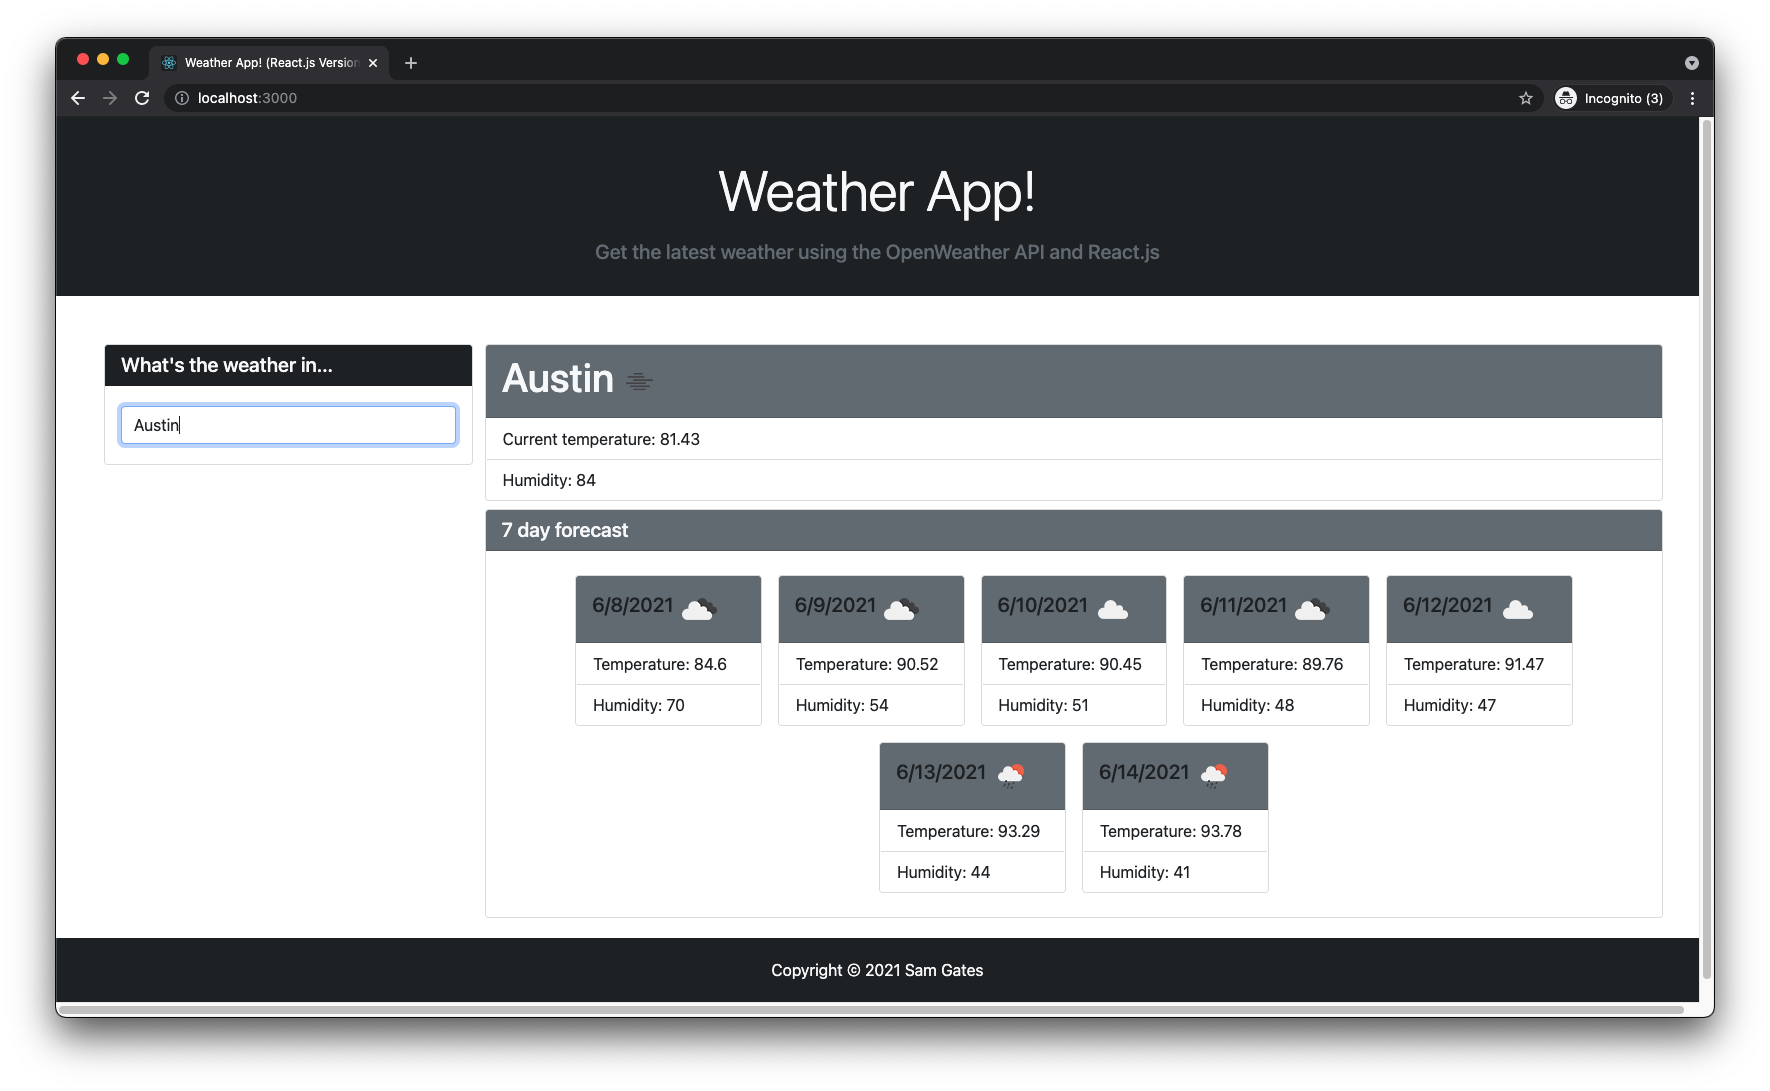
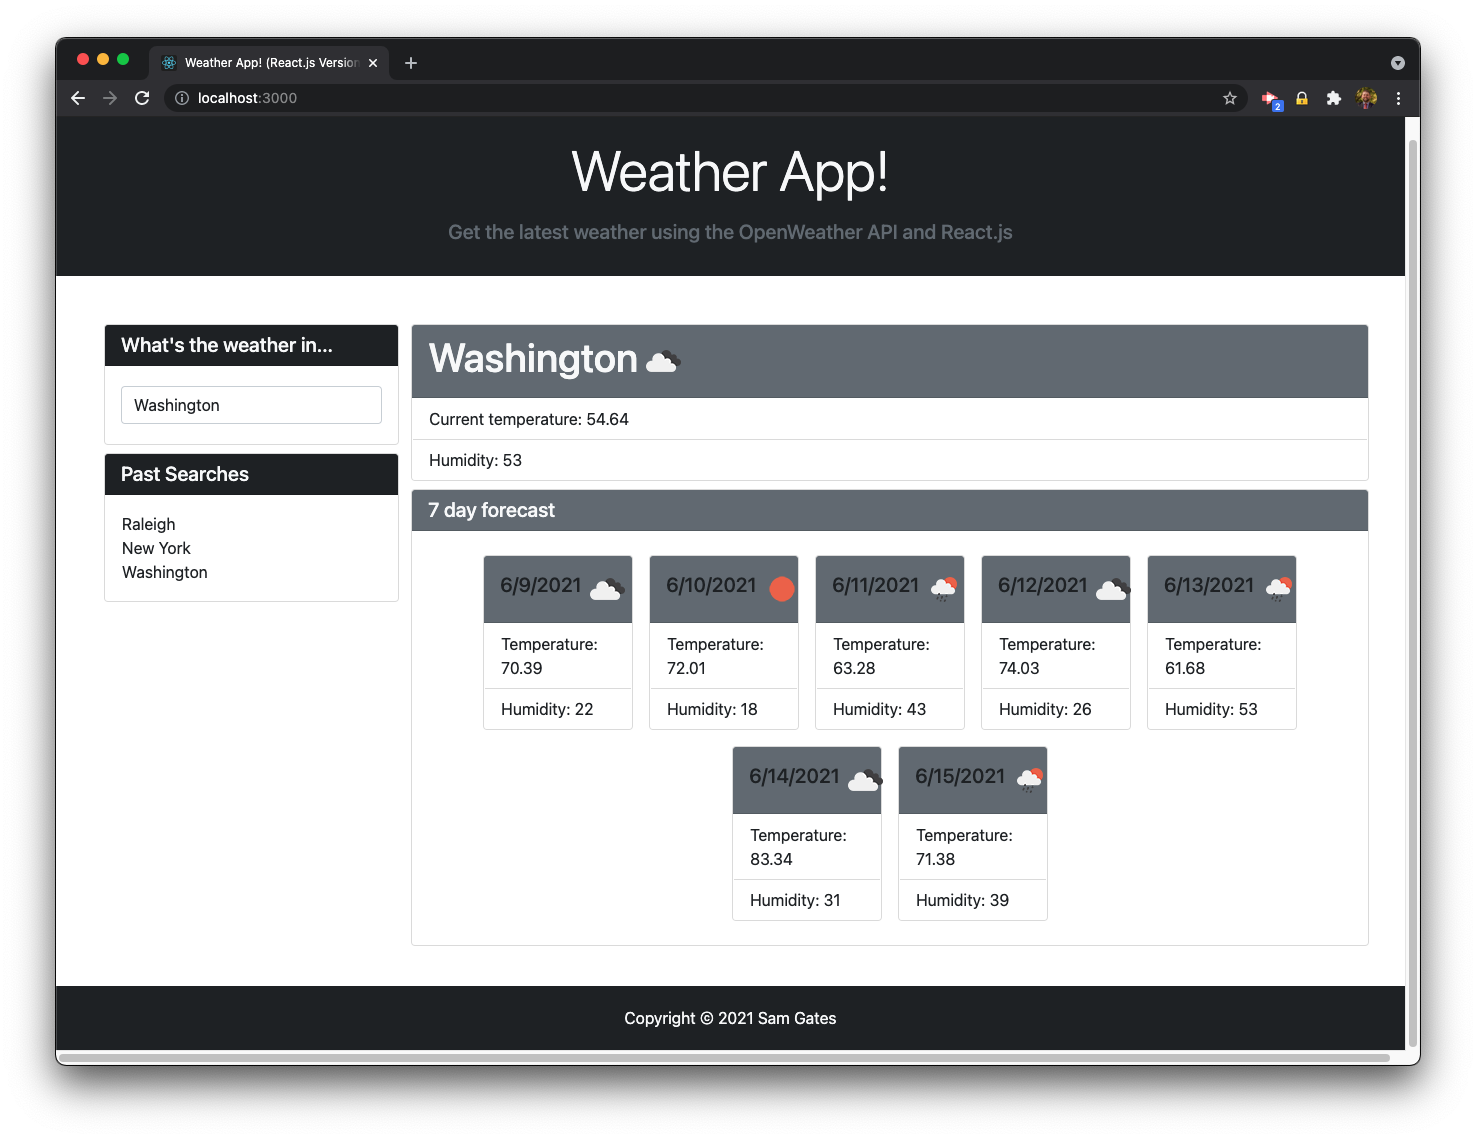
New screenshot, readme updated

Changed region(s): [[0.0, 0.0312, 0.9973, 0.9349]]

diff --git a/src/components/SearchHistory.js b/src/components/SearchHistory.js
@@ -3,7 +3,7 @@ import SearchHistoryDetail from './SearchHistoryDetail';
 
 const SearchHistory = ({ history }) => {
     if(!history) {
-        return <h1>No history yet!</h1>;
+        return null;
     }
 
     const cards = history.map((city, i) => {

diff --git a/README.md b/README.md
@@ -4,7 +4,7 @@
 
 ## Description
 
-For this project, I re-wrote the Weather App! using React.js. This app utilizes the OpenWeather API to get current weather conditions for any city that you search along with a 7 day forecast. Currently working on saving past successful searches. This feature will be deployed soon.
+For this project, I re-wrote the Weather App! using React.js. This app utilizes the OpenWeather API to get current weather conditions for any city that you search along with a 7 day forecast. The app also stores your past searches for future reference.
 
 ![Screenshot](readme/screenshot.png)
 
